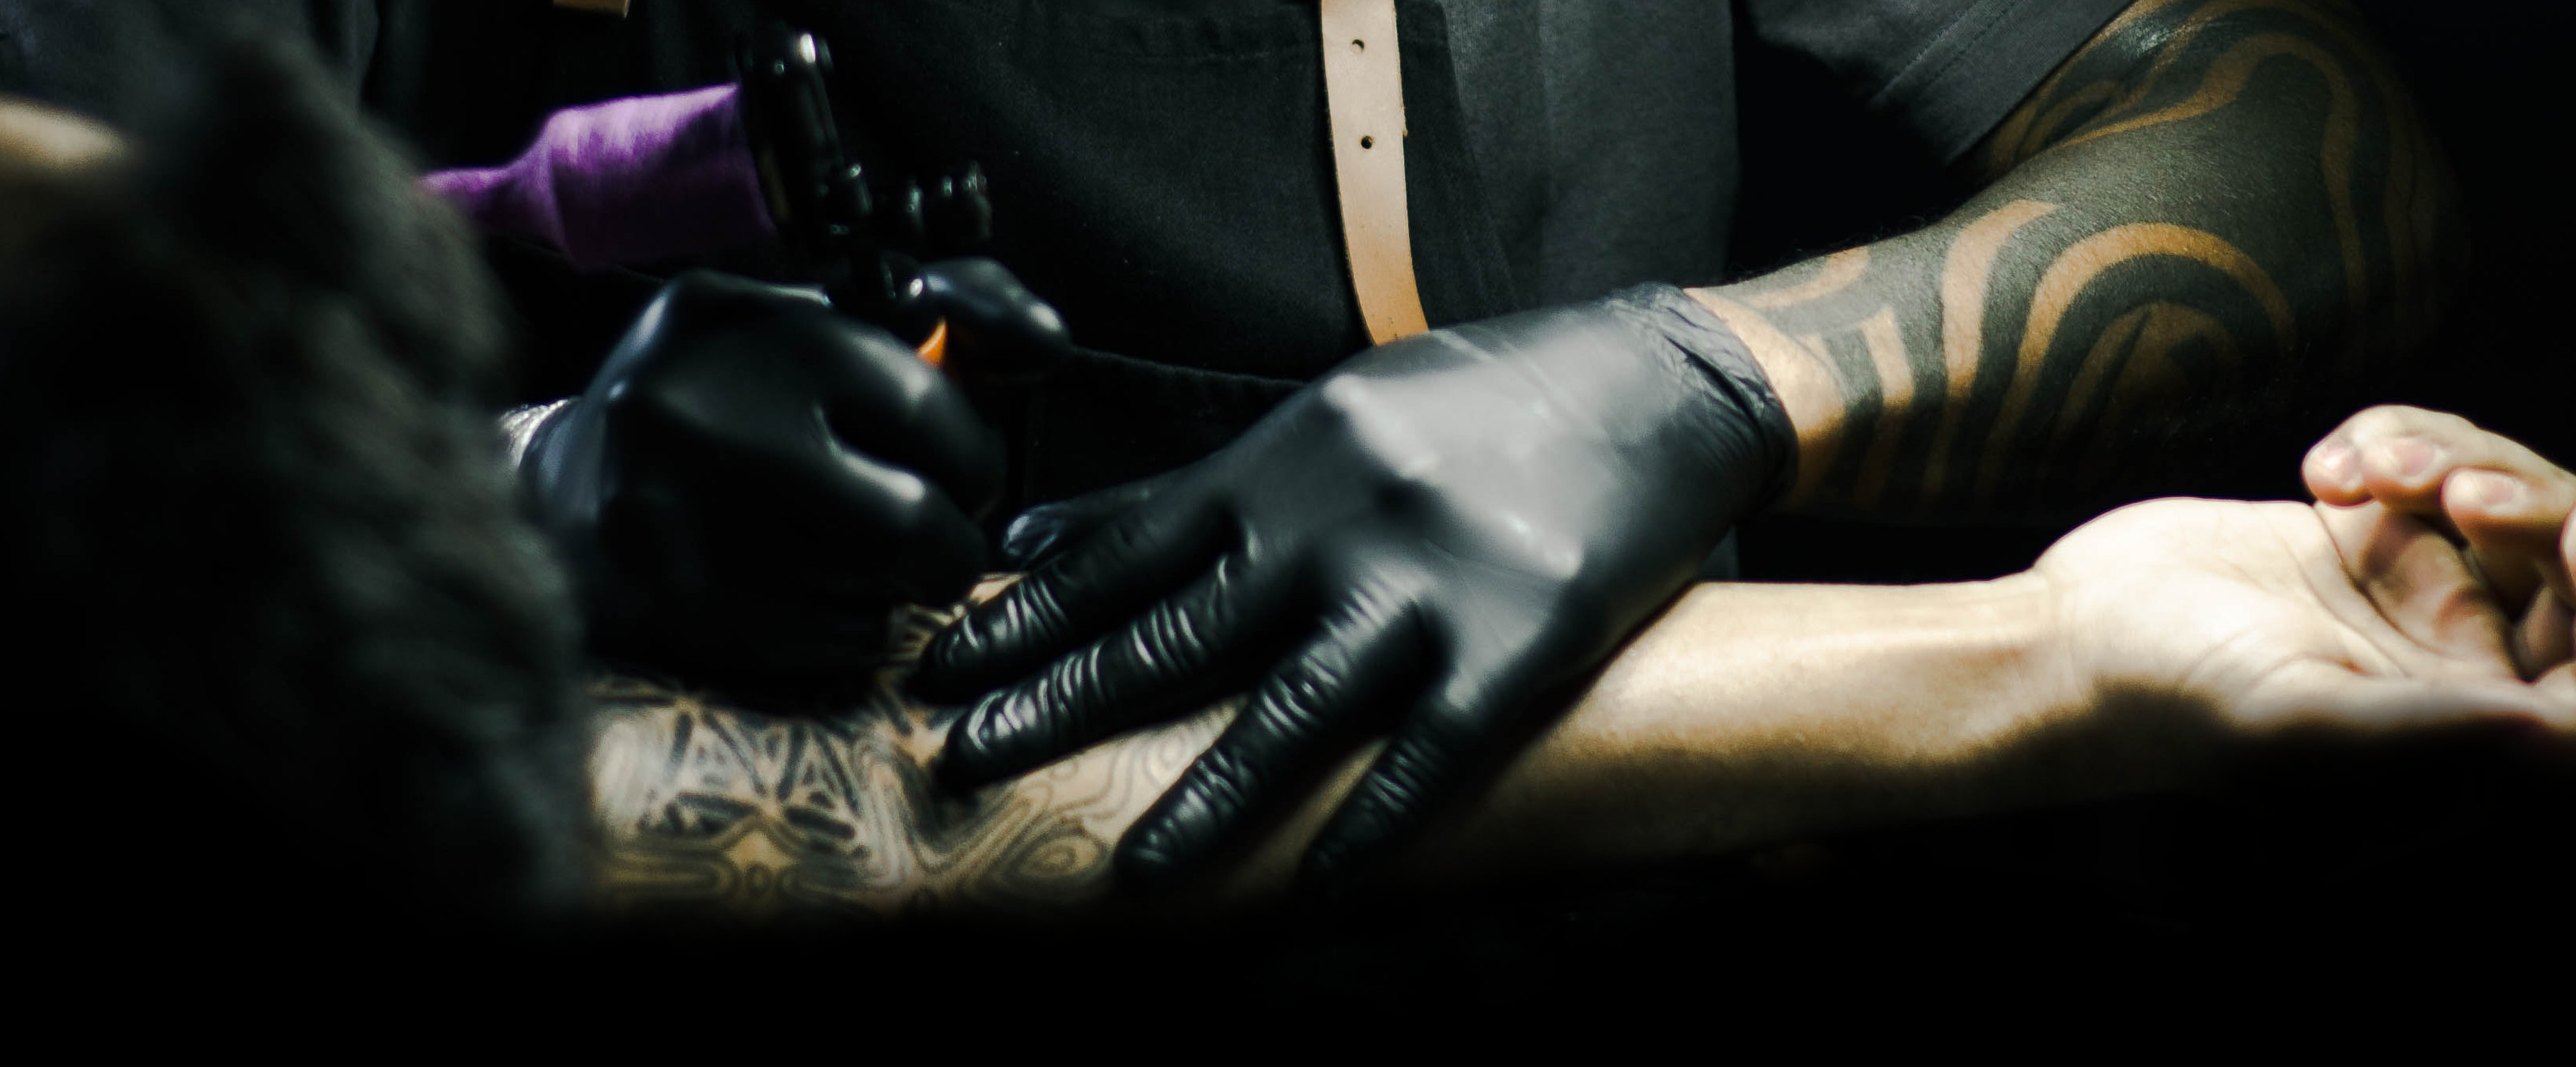
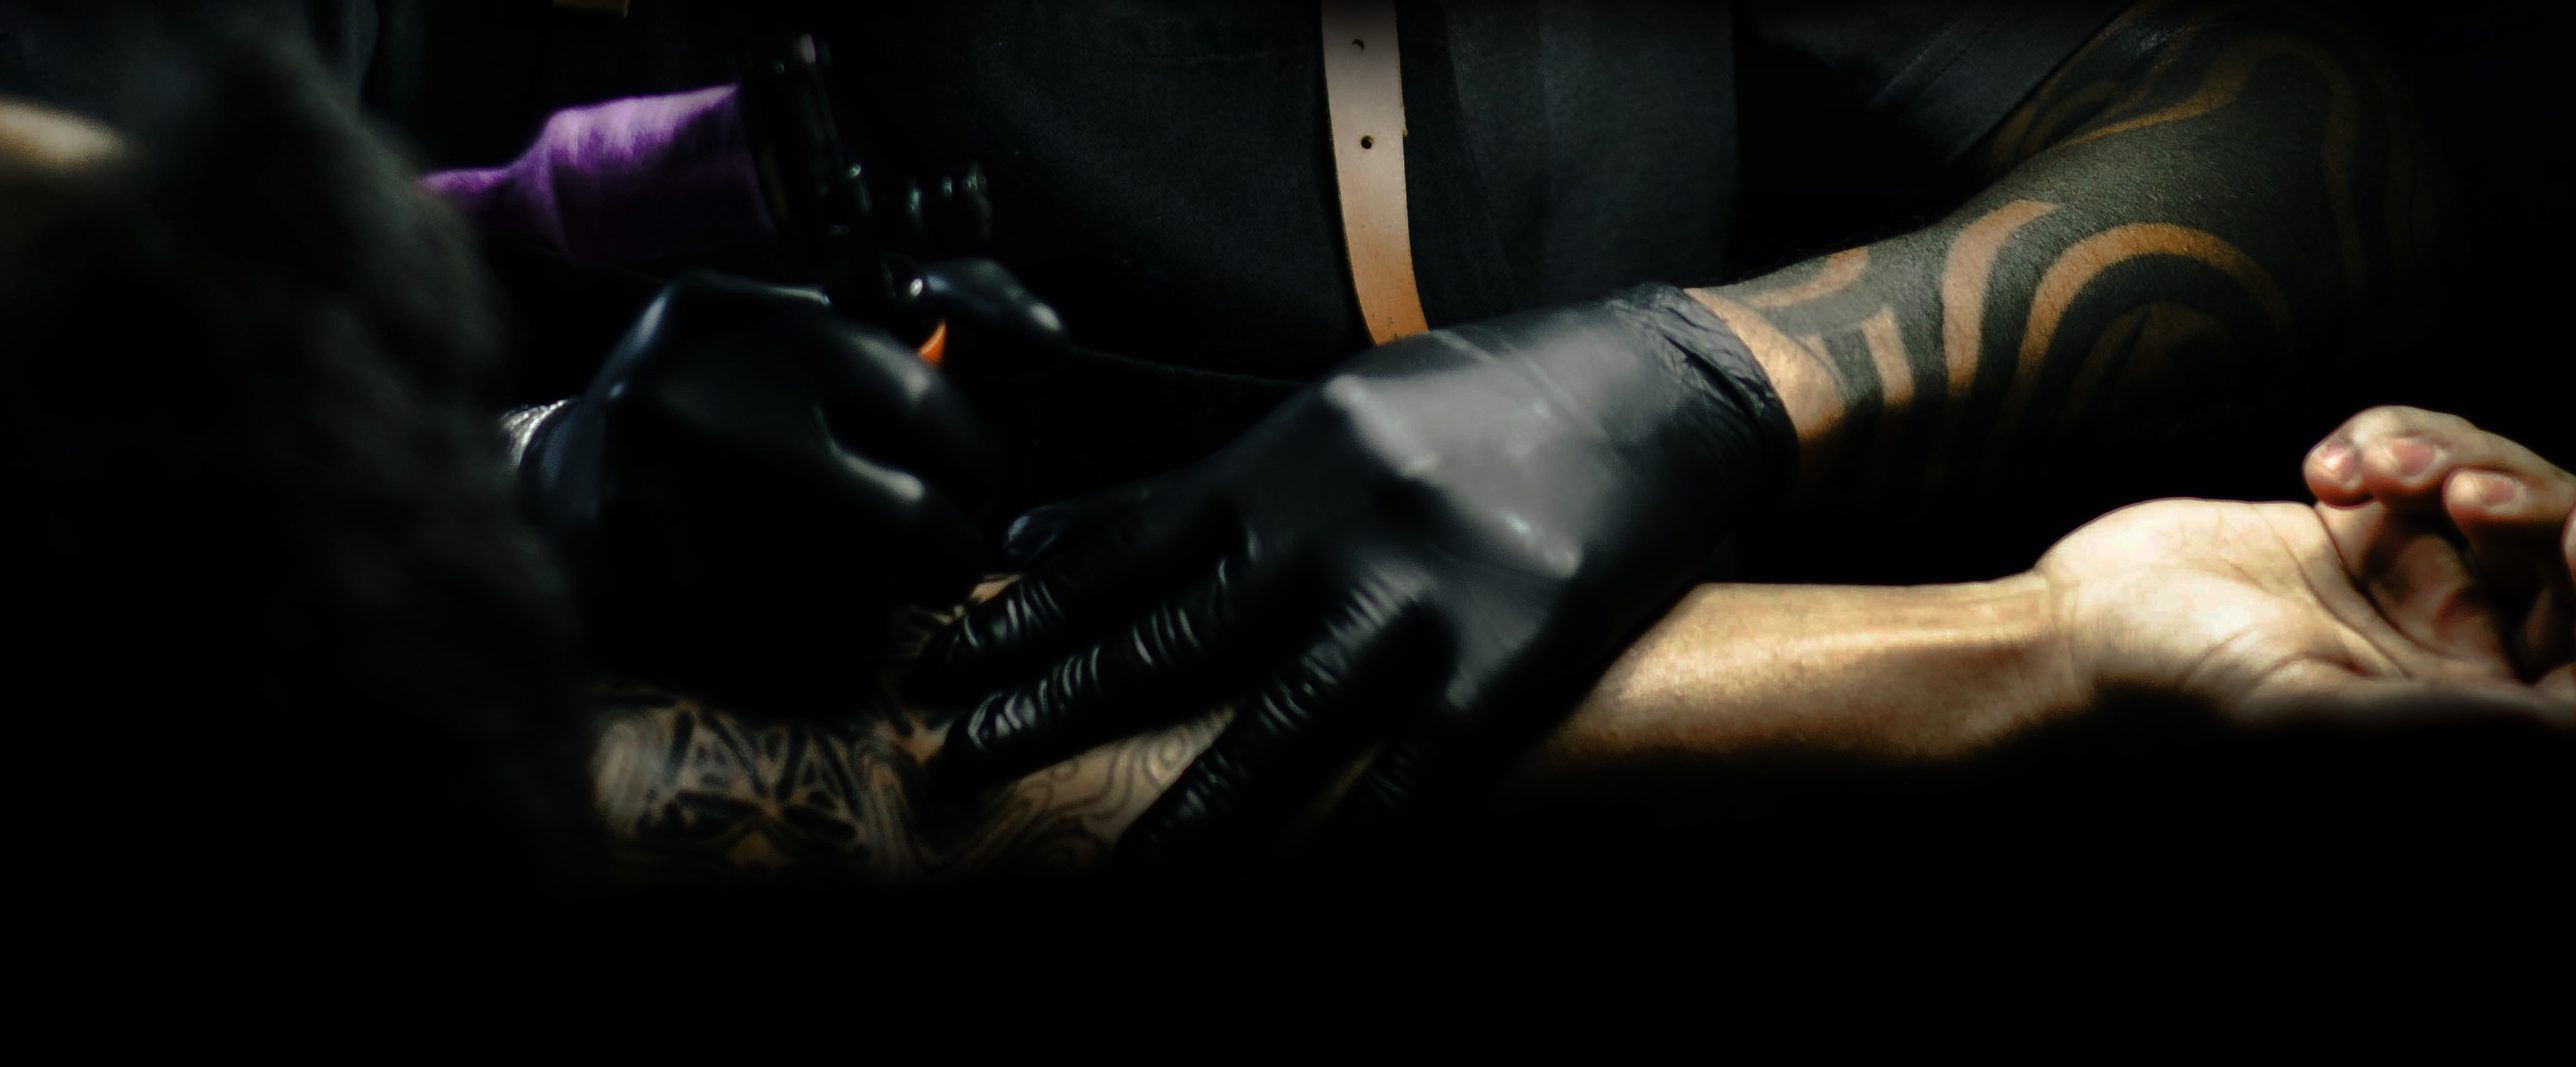
front

diff --git a/src/stylesheets/profile.css b/src/stylesheets/profile.css
@@ -3,8 +3,9 @@
   padding-top: 5%;
   background-image: url("/images/img-back.png");
   background-repeat: no-repeat;
-  background-size: 100% 80%;
+  background-size: 100% 400px;
 }
+
 .folder-header{
   width: 50%;
   border-bottom: 1px solid white;
@@ -22,10 +23,11 @@
 }
 
 .link-custom{
-text-decoration: none;
-color: black;
-font-weight: 600;
+  text-decoration: none;
+  color: black;
+  font-weight: 600;
 }
+
 .link-custom:hover{
   text-decoration: none;
   color:(173, 21, 51);
@@ -33,6 +35,14 @@ font-weight: 600;
 
 .fav-custom{
   background-color: #d5d1d5;
+  padding: 10px;
+  color: black;
+}
+
+.fav-custom h6{
+  /* border-bottom: 1px solid black; */
+  font-weight: 600;
+  
 }
 
 .btn-create{
@@ -122,8 +132,8 @@ font-weight: 600;
   left: 0px;
   right: 0px;
   z-index: -1;
-  border: 2px solid rgba(173, 21, 51);
-  border-color: transparent rgba(173, 21, 51);
+  border: 2px solid red;
+  border-color: transparent red;
 }
 
 .snip1566 img {
@@ -212,18 +222,19 @@ font-weight: 600;
 
 .map-info{
   background-color: #666;
-
 }
 
 a.card-art:hover{
   text-decoration:none;
 }
 .fav-art-card img{
-  width: 18%;
+  object-fit: cover;
+  width: 5rem;
 }
 
 .fav-art-card{
-  color: white;
+  min-width: 33vh;
+  color:black;
 }
 
 .modal-color{

diff --git a/src/components/user/Header.js b/src/components/user/Header.js
@@ -27,10 +27,10 @@ import React, { Component } from 'react';
 
 const Header = (props) => {
   return (
-    <div className={"d-flex flex-column align-items-center upload-image-container"}>
-      <div className="container-custom d-flex justify-content-center">
-        <label htmlFor="upload-image">
+    <div className={"d-flex flex-column upload-image-container"}>
+      <div className="container-custom d-flex">
           <figure className="snip1566">
+        <label htmlFor="upload-image">
             {
               props.image !== '' ?
               <img src={props.image} alt="sq-sample14" className="profile-image" />  
@@ -42,8 +42,8 @@ const Header = (props) => {
                 <span>UPLOAD</span>
               </figcaption>
             }
-          </figure>
         </label>
+          </figure>
       </div>
       <h2 className="pt-4 pb-4 text-uppercase">{props.user.name}</h2>
     </div>

diff --git a/src/components/user/Profile.js b/src/components/user/Profile.js
@@ -61,11 +61,16 @@ class Profile extends Component {
     return(
       <Fragment>
         <div className="container-fluid profile-custom">
+          <div className="profile-bg">
+
+          </div>
           <div className="row m-5">
 
-            <div className="col-lg-3 text-center profile-side-header mb-5">
+            <div className="col-lg-3 text-center profile-side-header">
+              <div className="d-flex row justify-content-center">
               <Header user={this.props.user} image={this.state.image} handleFileUpload={(e) => this.handleFileUpload(e)} />
               <FavoriteArtists id="artists" artistInfo={() => this.getInfo()} artists={this.state.favoriteArtists}/>
+              </div>
             </div>
 
             <div className="col-lg-9 p-0 profile-side-main pr-5">

diff --git a/src/components/user/folder/CreateFolder.js b/src/components/user/folder/CreateFolder.js
@@ -32,7 +32,7 @@ class CreateFolder extends Component {
   render() {
     return (
       <div>
-          <img src="/images/plus-circle-solid.svg" className="btn-create" data-toggle="modal" data-target="#exampleModal"/>
+        <img src="/images/plus-circle-solid.svg" className="btn-create" data-toggle="modal" data-target="#exampleModal"/>
         <div className="modal fade modal-color" id="exampleModal" tabIndex="-1" role="dialog" aria-labelledby="exampleModalLabel" aria-hidden="true">
           <div className="modal-dialog" role="document">
             <div className="modal-content">

diff --git a/src/components/user/favoriteArtist/ArtistCard.js b/src/components/user/favoriteArtist/ArtistCard.js
@@ -3,10 +3,10 @@ import React from 'react';
 const ArtistCard = (props) => {
   return(
     <li className="media fav-art-card pl-3">
-      <img src={props.state.profileImg} className="mr-3 rounded-circle " alt="..."/>
+      <img src={props.state.profileImg} className="mr-3 rounded-circle " alt="artist"/>
       <div className="media-body">
         <div className="row">
-          <h5 className="mt-0 ml-3"> {props.state.name}</h5>
+          <h5 className="mt-3 ml-3"> {props.state.name}</h5>
         </div>
       </div>
       <hr />

diff --git a/src/components/user/favoriteArtist/FavoriteArtists.js b/src/components/user/favoriteArtist/FavoriteArtists.js
@@ -23,7 +23,7 @@ class FavoriteArtists extends Component {
   render(){
     return(
       <div className="fav-custom">
-        <p className="text-uppercase pt-3">Artists you liked</p>
+        <h6 className="text-uppercase pt-3 pb-3">Artists you liked</h6>
         {
           this.props.artists.map((artist, index) => {
             let artistId = artist._id;

diff --git a/src/stylesheets/mainPage.css b/src/stylesheets/mainPage.css
@@ -4,7 +4,7 @@
 }
 
 .main-custom{
-  background-image: url('/images/art-artist-client-1304468.jpg');
+  background-image: url('/images/tattoo-arm.jpeg');
   background-size: cover;
   color:white;
   height: 100vh;

diff --git a/src/stylesheets/navbar.css b/src/stylesheets/navbar.css
@@ -81,6 +81,10 @@
 }
 
 @media only screen and (max-width: 1024px) {
+  .nav-custom{
+    background-color: black;
+    position: relative;
+  }
   .nav-responsive button {
     display: none;
   }
